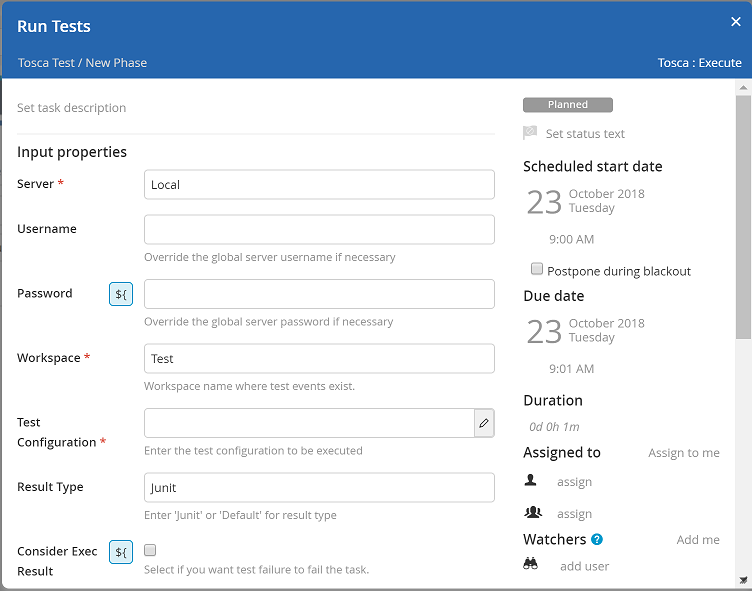
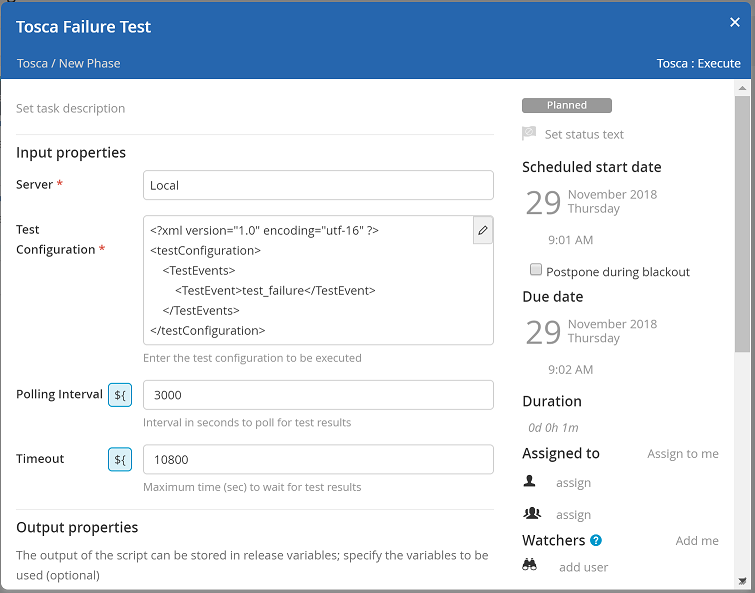
finished readme

diff --git a/README.md b/README.md
@@ -12,26 +12,28 @@
 
 # Overview #
 
-This plugin provides the ability to execute tests on a Tricentis TOSCA server.
+This plugin provides the ability to execute tests on a Tricentis Tosca server.
 
 See the **XL Release Reference Manual** for background information on XL Release and plugin concepts.
 
 * **Requirements**
   * **XL Release** 7.5.0+
-  * **Tosca** 11.3+
+  * **Tricentis Tosca** 11.3+
 
 # Installation #
 
-* Copy the latest JAR file from the [releases page](https://github.com/xebialabs-community/xlr-tosca-plugin/releases) into the `XL_RELEASE_SERVER/plugins/__local__` directory.
+* Copy the latest JAR file from the [releases page](https://github.com/xebialabs-community/xlr-tosca-plugin-v2/releases) into the `XL_RELEASE_SERVER/plugins/__local__` directory.
 * Restart the XL Release server.
 
 # Usage #
 
 ## Configure Server ##
 
-Begin by configuring one or more TOSCA servers.  Navigate to **Settings -> Shared configuration** and add a Tosca: Server.
+Begin by configuring one or more Tosca servers.  Navigate to **Settings -> Shared configuration** and add a Tosca: Server.
 
 ![ToscaServerConfig](images/tosca-server-config.png)
+
+
 
 ### Title ###
 
@@ -39,15 +41,15 @@ Enter a descriptive name for this server.
 
 ### URL ###
 
-Enter the full URL to the server.  Include protocol (http or https) and port number if applicable.
+Enter the full URL to the server.  Include protocol (http or https) and port number if applicable.  Note that this needs to be the full path to the Manager Service.  For example: http://<server>/DistributionServerService/ManagerService.svc
 
 ### Username ###
 
-Username XL Release will use to connect to the TOSCA server.  The user will need the necessary permissions to run the desired test.  You can optionally leave this field blank and specify username in the task.  This way you can have finer grained control over user accounts and permissions.
+The current versions of Tosca (12.0 and below) do not use authentication so no username or password is needed.  When future versions of Tosca require authentication, enter the username here.
 
 ### Password ###
 
-Enter the password for the above user account.  Like username, you can leave this field blank and specify the password with the task.
+When future versions of Tosca require authentication, enter the password here.
 
 ### Domain ###
 
@@ -55,29 +57,27 @@ The NTLM domain for authentication if applicable.
 
 ### Proxy ###
 
-Optional proxy information if you access the TOSCA server through a proxy.
+Optional proxy information if you access the Tosca server through a proxy.
+
+---
 
 ## Execute Tests Task ##
 
-In your SDLC templates, you can add a task of type **Tosca -> Execute** as shown below.  When this task executes, the given Test Configuration will be run on the TOSCA Server.
+In your SDLC templates, you can add a task of type **Tosca -> Execute** as shown below.  When this task executes, the given Test Configuration will be run on the Tosca Server.
 
 ![ToscaExecuteTests1](images/tosca-execute-1.png)
 
 ### Server ###
 
-The TOSCA Server that will run your tests.  Example endpoint: http://<server>/DistributionServerService/ManagerService.svc
-
-### Workspace ###
-
-The TOSCA workspace that has the test events defined in the Test Configuration.
+The Tosca Server that will run your tests.  
 
 ### Test Configuration ###
 
-XML representation of the Test Configuration.  See the TOSCA documentation for more information.
+XML representation of the Test Configuration.  See the Tosca documentation for more information.
 
 Example:
-```
-<?xml version="1.0" encoding="utf-16" ?>
+
+```<?xml version="1.0" encoding="utf-16" ?>
 <testConfiguration>
     <TestEvents>
         <TestEvent>SampleTestEvent</TestEvent>
@@ -85,27 +85,39 @@ Example:
 </testConfiguration>
 ```
 
-### Result Type ###
-
-The form of the test results expected.  This can be 'Junit' or 'Default'.
-
-### Consider Exec Result ###
-
-If checked, the task will fail if any tests fail.  Otherwise the task will complete successfully if the tests were run, regardless if any tests failed.
-
-![ToscaExecuteTests2](images/tosca-execute-2.png)
-
 ### Polling Interval ###
 
 How long, in seconds, to wait between polling for results.
 
 ### Timeout ###
 
-Total time, in seconds, to wait for results.  The task will fail with no results are retrieved within this time period.
+Total time, in seconds, to wait for results.  The task will fail if no results are retrieved within this time period.
+
+![ToscaExecuteTests2](images/tosca-execute-2.png)
+
+The Tosca plugin generates output that you may find useful in later tasks.  First define the variable for the template.  The test results and test output variables should be type 'text'.  The test failures variable must be type 'list'.
 
 ### Test Results ###
 
-You can optionally attach the test results to a variable in XL Release.  This can be helpful if you want to parse the results and carry out specific tasks based on that information.
+Returns either 'pass' or 'fail'.
+
+### Test Failures ###
+
+List of test names that failed.
+
+### Test Output ###
+
+The full test output.  This can be helpful if you want to parse the output and carry out specific tasks based on that information.
+
+---
+
+### Example Output ###
+
+Once the task is complete you will see output like these shown below...
+
+![ToscaExecuteTests2](images/tosca-execute-success.png)
+
+![ToscaExecuteTests2](images/tosca-execute-failure.png)
 
 # Developers #
 
@@ -115,6 +127,8 @@ Build and package the plugins with...
 ./gradlew shadowJar
 ```
 
-# TO DO #
+Run unit tests with...
 
-* Implement 'Consider Exec Result' functionality in execute_test.py.  The client library implements this in main.java which we are not calling.
+```bash
+./gradlew pyTest
+```
